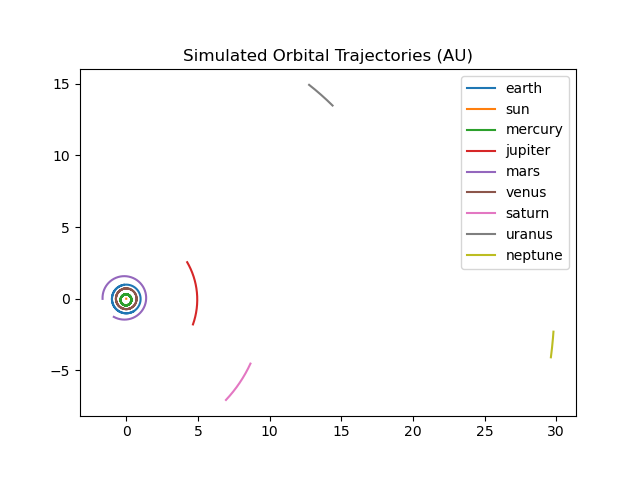
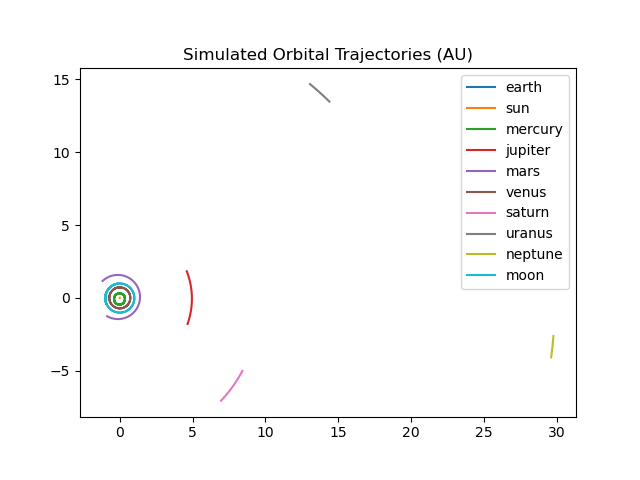
added moon

diff --git a/Parser.py b/Parser.py
@@ -6,8 +6,8 @@ import numpy as np
 import requests
 
 #creates Dict that has the planets ID's to make the API call
-planet_names = ["earth", "sun", "mercury", "jupiter", "mars", "venus", "saturn", "uranus", "neptune"]
-planet_commands = [399,10,199,599,499,299,699,799,899]
+planet_names = ["earth", "sun", "mercury", "jupiter", "mars", "venus", "saturn", "uranus", "neptune","moon"]
+planet_commands = [399,10,199,599,499,299,699,799,899,301]
 Planets = dict(zip(planet_names,planet_commands))
 
 

diff --git a/Horizon-TestFile.py b/Horizon-TestFile.py
@@ -1,0 +1,15 @@
+import json
+import requests
+
+
+url = "https://ssd.jpl.nasa.gov/api/horizons.api?"
+#define parameters
+start_time = '2022-01-01'
+stop_time = '2022-01-02'
+planetID = 'MB'
+#built url
+url += "format=json&EPHEM_TYPE=VECTORS&OBJ_DATA=YES&CENTER='500@0'"
+url += "&COMMAND='{}'&START_TIME='{}'&STOP_TIME='{}'".format(planetID,start_time,stop_time)
+
+response = requests.get(url).json()
+print(response)
